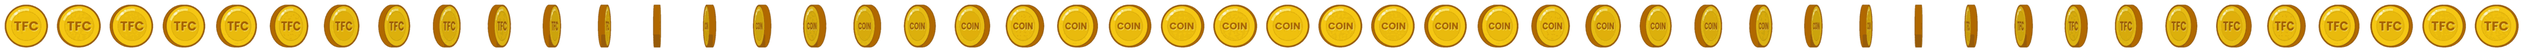
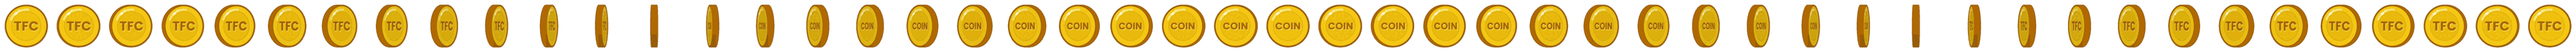
fix: the coin turns in place, and turns over on hover
Three things about the coin were wrong. It went all the way round on
hover rather than over: half the strip is the obverse to the reverse, and
stopping there — `forwards` — is what shows the other side of a coin
rather than spinning it back to where it started. It stood still the rest
of the time, when the one way into the game should be the one thing in
the header that moves; it turns now, once every 2.8 seconds.

And it walked sideways as it turned. The frames arrive centred on the
coin's outline, which is right for a coin turning about its own axis and
wrong for one this thick: the lit face swings a tenth of the coin's width
to one side and snaps across as it passes edge-on, and the eye is
watching the face rather than the outline. The strip is rebuilt with
every frame aligned on the face, which leaves the dark rim to do the
swinging.

Claude-Session: https://claude.ai/code/session_0128NCCKMhpRm6BkhwcPeQbd

diff --git a/app/components/TfcCoin.vue b/app/components/TfcCoin.vue
@@ -4,11 +4,24 @@
  *
  * The coin itself, from `redesign/tfc-coin-spritesheet.png`: the 48 frames of
  * one full turn, laid out in a single row as `public/tfc-coin-spin.png` and
- * shown one frame at a time. At rest it is the first of them, the obverse
- * face-on. The sheet arrives 8×6 at 320px a frame with the studio's dark
- * background baked in, so it is keyed to transparency, scaled to 80px and
- * strung out in one row — 32KB for the whole turn, which is what makes it
- * affordable in a site header.
+ * shown one frame at a time. Frame 0 is the obverse face-on, frame 24 the
+ * reverse — half a turn — and a 49th frame repeats the first, so a full turn
+ * ends where it began and the arithmetic lands on whole frames: with the strip
+ * scaled to 49 times the coin, frame *k* sits at `100k/48`% and the two that
+ * matter are 0% and 50%.
+ *
+ * The sheet arrives 8×6 at 320px a frame with the studio's dark background
+ * baked in, so it is keyed to transparency, scaled to 80px and strung out in
+ * one row — 32KB for the whole turn, which is what makes it affordable in a
+ * site header.
+ *
+ * **And each frame is re-centred on the face before it goes in.** The frames
+ * arrive centred on the coin's outline, which is correct for a coin turning
+ * about its own axis and wrong for one this thick: the lit face swings a tenth
+ * of the coin's width to one side, snaps across as the coin passes edge-on,
+ * and the eye — which is watching the face, not the outline — reads all of
+ * that as a coin sliding sideways. Aligning the faces instead leaves the dark
+ * rim to do the swinging, and the coin turns where it stands.
  *
  * **Drawn rather than turned.** A coin can be spun in CSS by rotating one face
  * on `rotateY`, and it looks like what it is: a flat card with the same face
@@ -17,13 +30,16 @@
  * through them is the difference between a coin turning and a rectangle
  * flipping.
  *
- * It never moves by itself: a coin spinning in a header is a header that never
- * stops moving. A parent that wants a turn animates `background-position-x`
- * across the strip, a step a frame — `PlayTfcButton` is the one that does, on
- * hover, and carries the keyframes. `steps(48, jump-none)` is what lands on
- * whole frames: it takes both ends of the range, so the 48 values it stops at
- * are the 48 frames rather than 48 samples across them. Anybody who has asked for less motion is
- * given none, here rather than in each parent.
+ * It does not move by itself. A parent that wants it to animates
+ * `background-position-x` across the strip, a step a frame: `PlayTfcButton` is
+ * the one that does — turning at rest, and half a turn onto the reverse when a
+ * pointer arrives — and it carries the keyframes. Every other coin on the site
+ * is a mark beside a number, and a number with something spinning next to it
+ * is harder to read.
+ *
+ * Anybody who has asked for less motion is given none, and that is settled
+ * here rather than in each parent: the rule below outranks whatever a parent
+ * asks for.
  *
  * **Sized by whoever places it**, in both directions: the frames are square
  * and the strip is scaled to 48 times the element's width, so a coin with no
@@ -40,8 +56,8 @@
   display: inline-block;
   background-image: url("/tfc-coin-spin.png");
   background-repeat: no-repeat;
-  /* 48 frames, each exactly as wide as the coin. */
-  background-size: 4800% 100%;
+  /* 49 frames, each exactly as wide as the coin. */
+  background-size: 4900% 100%;
   background-position: 0 0;
 }
 

diff --git a/app/components/PlayTfcButton.vue b/app/components/PlayTfcButton.vue
@@ -103,16 +103,20 @@ onMounted(load);
   height: 34px;
   transform: translateY(-50%);
   filter: drop-shadow(0 2px 0 rgba(4, 7, 7, 0.55));
+  /* Turning, unhurried, so the one way into the game is the one thing in the
+     header that moves. The 49th frame is the first one again, so the loop
+     comes round rather than snapping back. */
+  animation: tfc-coin-turn 2.8s steps(48) infinite;
 }
 
 /*
-  The coin turns once on hover: one step per frame across the strip `TfcCoin`
-  is drawn from, and back to the face it started on. An animation rather than a
-  transition to a turned state, because that state has to be left again when
-  the pointer goes, and leaving it is the same turn run backwards.
+  A pointer turns it over. Half the strip rather than all of it — frame 0 to
+  frame 24, which is the obverse to the reverse — and it stays there while the
+  pointer does, which is what `forwards` is for: hovering PlayTFC shows the
+  other side of the coin rather than spinning it back to where it was.
 */
-.play-tfc:hover :deep(.tfc-coin) {
-  animation: tfc-coin-turn 0.62s steps(48, jump-none);
+.play-tfc:hover .play-tfc__coin {
+  animation: tfc-coin-flip 0.35s steps(24) forwards;
 }
 
 @keyframes tfc-coin-turn {
@@ -122,6 +126,16 @@ onMounted(load);
 
   to {
     background-position-x: 100%;
+  }
+}
+
+@keyframes tfc-coin-flip {
+  from {
+    background-position-x: 0%;
+  }
+
+  to {
+    background-position-x: 50%;
   }
 }
 
@@ -166,7 +180,8 @@ onMounted(load);
     transition: none;
   }
 
-  .play-tfc:hover :deep(.tfc-coin) {
+  .play-tfc__coin,
+  .play-tfc:hover .play-tfc__coin {
     animation: none;
   }
 }
